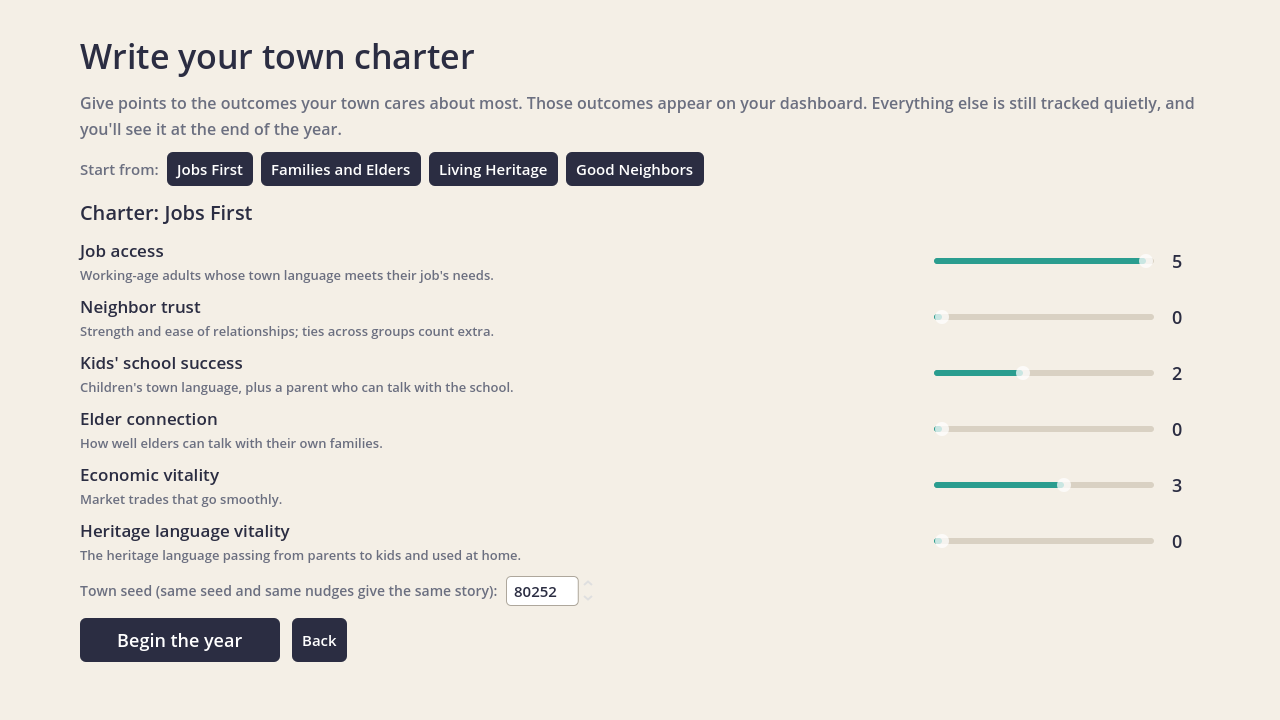
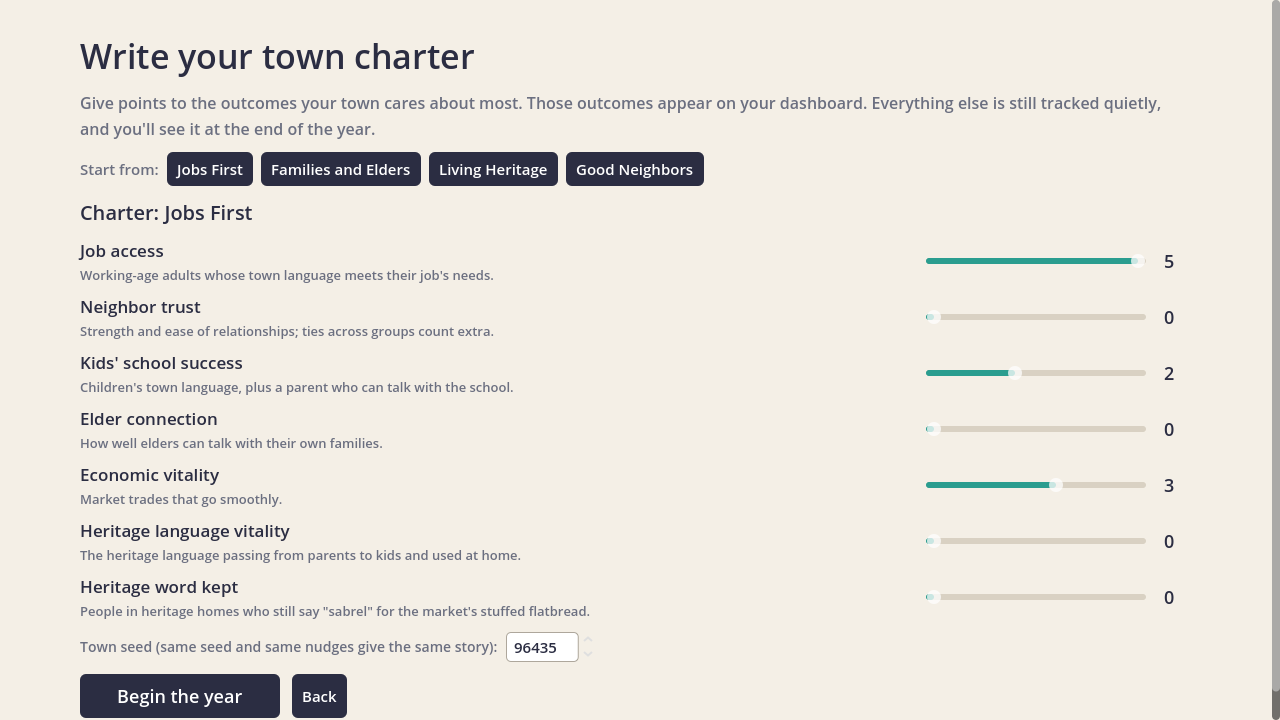
Add "Heritage word kept" as a charter outcome (v0.4)
- New outcome: share of heritage-home residents who still say the
  heritage word, averaged over every concept that has one
- Weighted in the Living Heritage preset; tracked quietly otherwise,
  so it can surface as the year's hidden cost
- What-if hides the duplicate heritage-homes word readout
- README, batch columns, and screenshots updated

Claude-Session: https://claude.ai/code/session_01EMKef2aaeYppiw2bz73Hka

diff --git a/README.md b/README.md
@@ -8,11 +8,11 @@ A complex-systems game about how language moves through a community.
 
 You are the town's community connector. Thirty neighbors live here: some speak the town language at home, and some speak a heritage language. You can't teach anyone or tell anyone what to do. You can only **nudge**: open a place where people meet, hold an event, introduce two people, hire a bilingual helper, or put up a sign. Words, habits, and friendships spread on their own.
 
-At the start you write a **town charter**: you give points to the outcomes your town cares about (jobs, neighbor trust, kids' school success, elder connection, economic vitality, heritage-language vitality). Those outcomes show on your dashboard. Everything else is tracked quietly and revealed in the end-of-year report, so you see what your strategy cost.
+At the start you write a **town charter**: you give points to the outcomes your town cares about (jobs, neighbor trust, kids' school success, elder connection, economic vitality, heritage-language vitality, and keeping the heritage word). Those outcomes show on your dashboard. Everything else is tracked quietly and revealed in the end-of-year report, so you see what your strategy cost.
 
 ## Status
 
-Playable prototype (v0.3). One town, one year (4 seasons of 12 weeks), two languages, two competing word pairs, and a replay with "what if" at the end of the year.
+Playable prototype (v0.4). One town, one year (4 seasons of 12 weeks), two languages, two competing word pairs, and a replay with "what if" at the end of the year.
 
 ## Running it
 
@@ -50,6 +50,8 @@ Words spread through the same conversations as everything else, but each pair te
 **Words follow the language being spoken.** When people speak the heritage language, anyone who speaks it well uses the heritage word. When they speak the town language, people use whichever word they prefer, which is how a loanword travels. So the heritage word's survival at home depends on whether families keep speaking the heritage language at home.
 
 **Switching words** takes hearing a new word from more distinct people than you've heard your current word from (you count as one voice for your own word). Catchy words count for a bit more. Elders need one extra voice, and after switching, a person keeps the new word for at least four weeks.
+
+**Heritage word kept** is a charter outcome: the share of people in heritage homes who still say "sabrel." The "Living Heritage" preset weights it; in other charters it's tracked quietly and often turns up as the year's hidden cost.
 
 Use the **"Map shows who says"** picker on the game screen to switch which word the map highlights. Hover over anyone to see both of their words.
 
@@ -122,7 +124,7 @@ godot --headless --script res://tests/batch_run.gd -- --seeds=10 --only=mixers -
 
 Averages over 20 seeds at the end of the year (0 to 1):
 
-| Strategy | Job access | Heritage vitality | Segregation | Fragility | Says "pop" | "Sabrel" in heritage homes | "Sabrel" in town homes |
+| Strategy | Job access | Heritage vitality | Segregation | Fragility | Says "pop" | Heritage word kept | "Sabrel" in town homes |
 |---|---|---|---|---|---|---|---|
 | No nudges | 0.95 | 0.80 | 0.41 | 0.46 | 0.15 | 0.64 | 0.35 |
 | Mixers (with a "pop" sign) | 1.00 | 0.59 | 0.38 | 0.40 | 0.47 | 0.49 | 0.30 |
@@ -149,4 +151,4 @@ The starter numbers in `docs/design-spec.md` were guesses. Batch testing led to 
 
 ## Not built yet
 
-From `docs/godot-plan.md`: a third language, saving scenarios as `.tres` resources, and sound. Words don't count toward the charter score yet; a "keep the heritage word" charter goal would be a natural addition.
+From `docs/godot-plan.md`: a third language, saving scenarios as `.tres` resources, and sound. A second cross-language pair where a town word could become a loanword in heritage homes would round out the word system.
